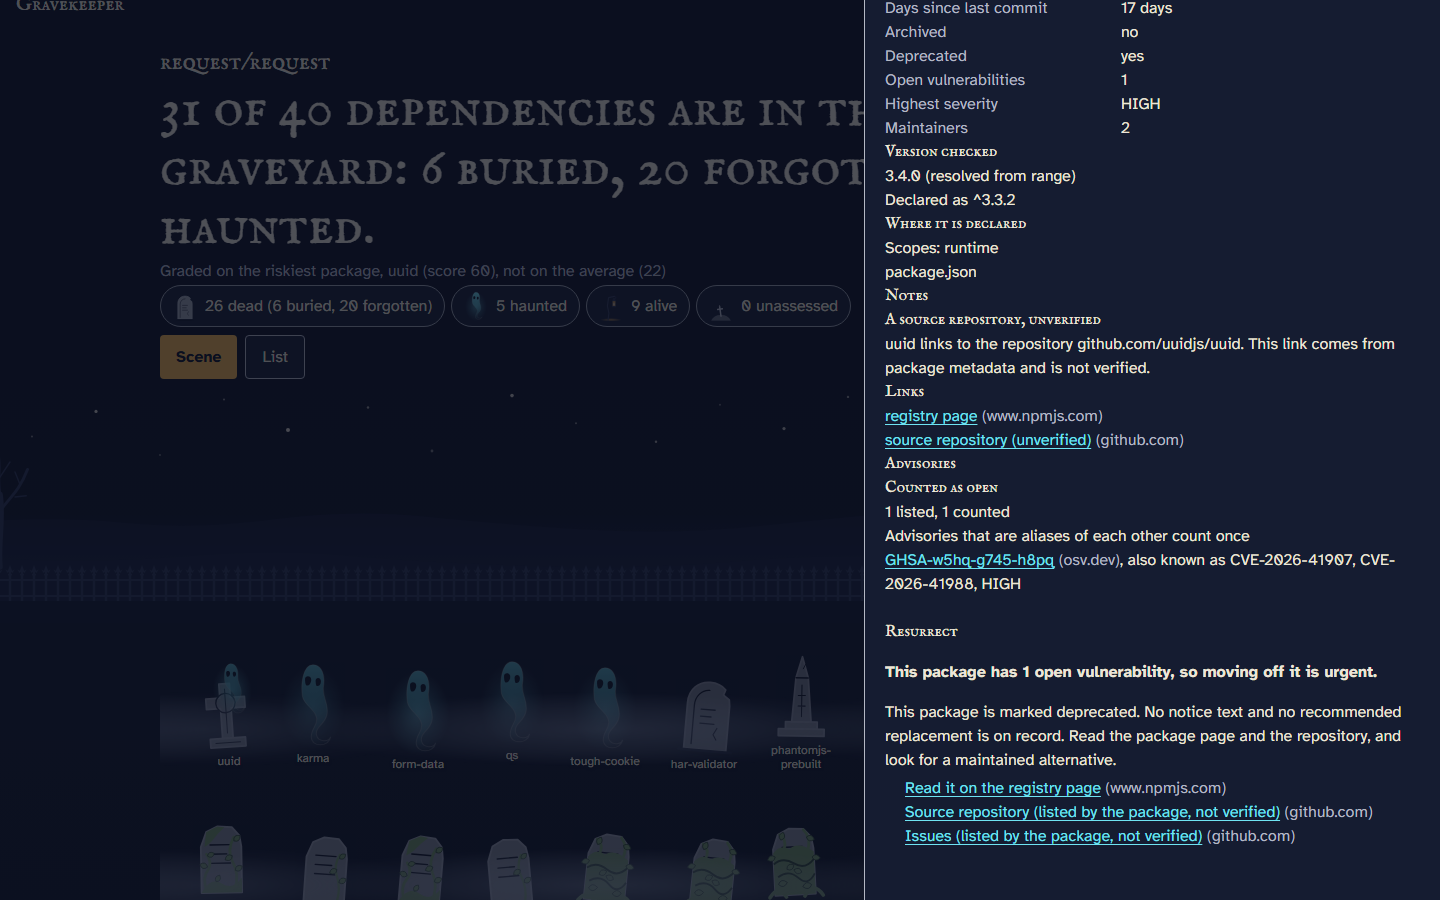
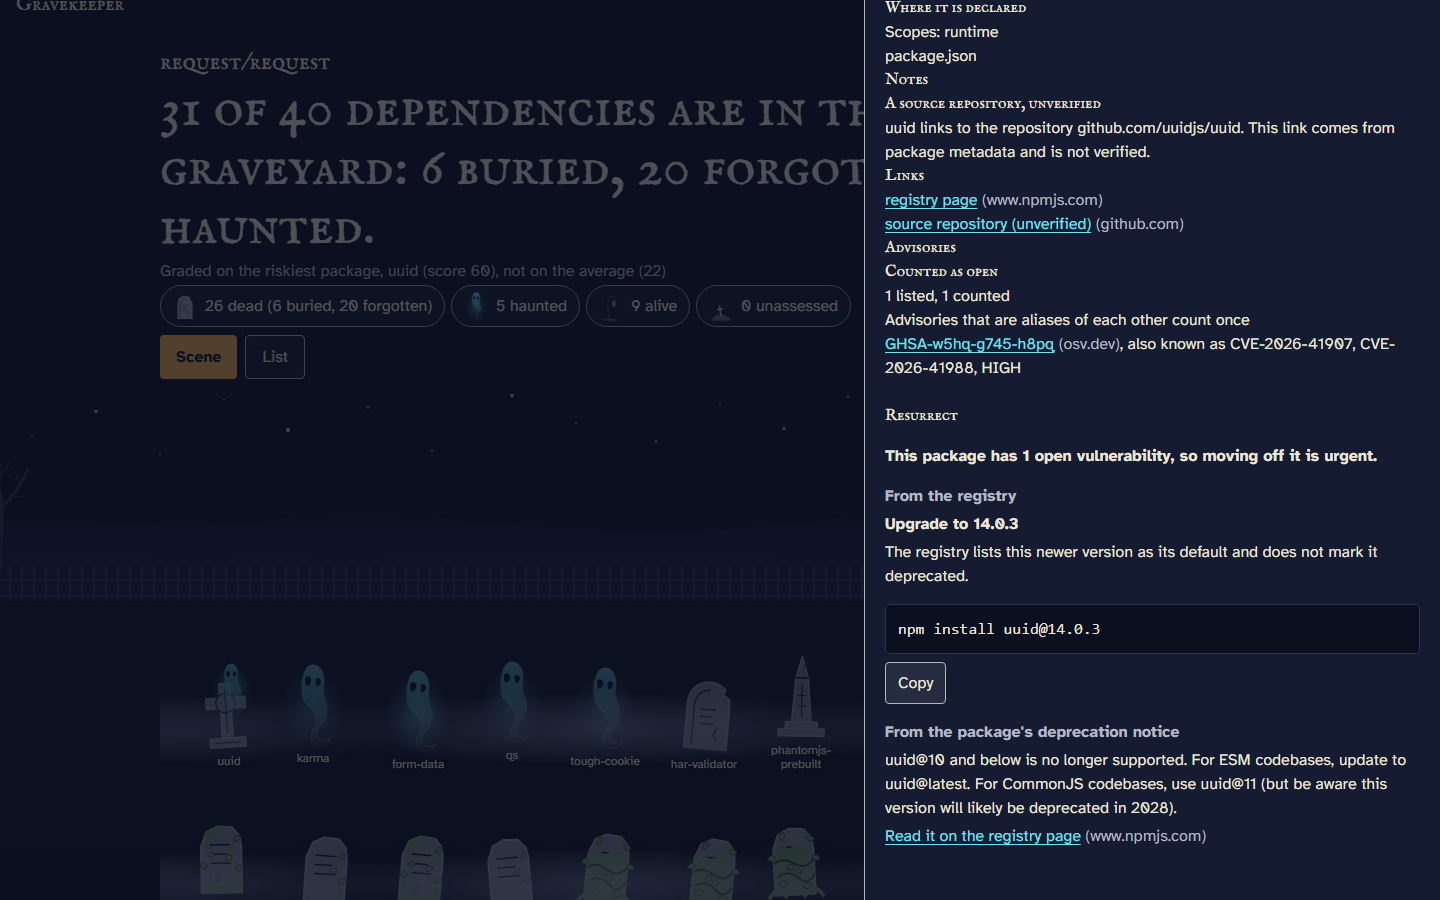
resurrect-upgrade: report and screenshots

Changed region(s): [[0.5938, 0.0, 0.9688, 0.6533], [0.5938, 0.6844, 0.9688, 0.9333], [0.7812, 0.0, 0.8125, 0.0311]]

diff --git a/docs/resurrect-upgrade-report.md b/docs/resurrect-upgrade-report.md
@@ -1,0 +1,188 @@
+# Resurrect upgrade report
+
+Verified 2026-11-21. Spec: `.kiro/specs/resurrect-upgrade`. Texts below come from `test-results/resurrect-slot-text.json` (the Resurrect slot of the detail panel, `innerText`, verbatim).
+
+## What the slot shows
+
+### uuid
+
+Recorded `request/request` fixture, checked version 3.4.0. The slot holds the urgent line, the Upgrade section with its command, then the deprecation notice of the checked version (uuid@3.4.0). No fallback is shown.
+
+- Urgent line: "This package has 1 open vulnerability, so moving off it is urgent."
+- Upgrade section: label "From the registry", title "Upgrade to 14.0.3", command `npm install uuid@14.0.3`
+- Hint label: "From the package's deprecation notice"
+
+```
+Resurrect
+
+This package has 1 open vulnerability, so moving off it is urgent.
+
+From the registry
+
+Upgrade to 14.0.3
+
+The registry lists this newer version as its default and does not mark it deprecated.
+
+npm install uuid@14.0.3
+Copy
+
+From the package's deprecation notice
+
+uuid@10 and below is no longer supported. For ESM codebases, update to uuid@latest. For CommonJS codebases, use uuid@11 (but be aware this version will likely be deprecated in 2028).
+
+Read it on the registry page (www.npmjs.com)
+```
+
+### rimraf
+
+Recorded fixture. rimraf is a dev dependency, so the command carries `--save-dev`.
+
+- Upgrade section: label "From the registry", title "Upgrade to 6.1.4", command `npm install --save-dev rimraf@6.1.4`
+- Hint label: "From the package's deprecation notice"
+
+```
+Resurrect
+
+From the registry
+
+Upgrade to 6.1.4
+
+The registry lists this newer version as its default and does not mark it deprecated.
+
+npm install --save-dev rimraf@6.1.4
+Copy
+
+From the package's deprecation notice
+
+Rimraf versions prior to v4 are no longer supported
+
+Read it on the registry page (www.npmjs.com)
+```
+
+### har-validator
+
+Recorded fixture. Only the notice of its `/latest` document is shown. There is no upgrade: 5.1.5 is already the latest version and deps.dev has no healthier default. There is no fallback.
+
+```
+Resurrect
+
+From the package's deprecation notice
+
+this library is no longer supported
+
+Read it on the registry page (www.npmjs.com)
+```
+
+### request (synthetic)
+
+**Synthetic row.** `request` is not a dependency of request/request. A buried `request` npm row was added to the request fixture body (mocked). Its hint is the real npm deprecation notice of request@2.88.2, fetched from `https://registry.npmjs.org/request/latest` on 2026-11-21. It has no upgrade because the synthetic row carries none, so the slot shows the notice plus the caretaker's list (got, axios, node-fetch).
+
+```
+Resurrect
+
+From the package's deprecation notice
+
+request has been deprecated, see https://github.com/request/request/issues/3142
+
+Read it on the registry page (www.npmjs.com)
+
+From the caretaker's list
+
+The request maintainers collected alternative libraries after deprecating request, and the list names node-fetch, got and axios.
+
+Source for this suggestion (github.com)
+
+got
+
+npm uninstall request
+npm install got
+Copy
+
+axios
+
+npm uninstall request
+npm install axios
+Copy
+
+node-fetch
+
+npm uninstall request
+npm install node-fetch
+Copy
+```
+
+axe-core found 0 violations on all six panels of the report spec (har-validator, aws-sign2, uuid, phantomjs-prebuilt, rimraf, synthetic request).
+
+## Screenshots
+
+All 1440x900, regenerated 2026-11-21. The uuid shot shows the urgent line, the Upgrade section with its command and Copy button, then the hint.
+
+![har-validator, buried: notice only](screenshots/resurrect/resurrect-buried-har-validator.png)
+
+![aws-sign2, forgotten: no notice and no replacement on record](screenshots/resurrect/resurrect-forgotten-aws-sign2.png)
+
+![uuid, restless: urgent line, upgrade, hint](screenshots/resurrect/resurrect-restless-uuid.png)
+
+## Properties
+
+RU-P1 to RU-P8 all passed at 1000 runs (`npm run test:deep`) with no counterexample. RS-P5 ("never its own replacement") is unchanged and still passes.
+
+| Property | Title (design.md) | Tests |
+| --- | --- | --- |
+| RU-P1 | A version document is requested exactly for a deprecated, differing, strict npm version | 2 |
+| RU-P2 | Hint combination prefers the version notice and stays bounded | 3 |
+| RU-P3 | An upgrade is offered only to an existing, healthy, higher default version of a deprecated checked version | 1 |
+| RU-P4 | Strict versions are shell-safe and upgrade commands follow the fixed grammar | 2 |
+| RU-P5 | Client narrowing of the upgrade is total, valid and idempotent | 3 |
+| RU-P6 | Section order is fixed and an upgrade suppresses the fallback | 3 |
+| RU-P7 | Scan results with upgrades survive JSON and the validator | 2 |
+| RU-P8 | The curated loader enforces the six-key schema and links only the human page | 1 |
+
+No RU property found a code defect during development. One CI run (a61603b) failed because the e2e test still selected the first text block, which is now the upgrade sentence. It was fixed in 891ed4a (task 15.1).
+
+## Requests
+
+Cold scan of `request/request`, L2 cache off.
+
+| | Before | After |
+| --- | --- | --- |
+| Total requests | 103 | 105 |
+| npm requests | 40 | 42 |
+| `GET registry.npmjs.org/{package}/latest` | 40 (labelled `{package}/{version}`) | 40 |
+| `GET registry.npmjs.org/{package}/{version}` | none | 2 (uuid@3.4.0, rimraf@2.7.1) |
+
+- Before: `docs/scan-accuracy-live-report.md`, 2026-11-19. That report predates this spec and labelled every npm request `{package}/{version}`.
+- After: measured 2026-11-21. Cold duration 4065 ms. Grade D, counts 9/5/26.
+
+## Fixture
+
+- Repository re-recorded: `request/request` (`tests/fixtures/request__request`, 895,832 B, under 1 MiB).
+- New recorded documents: `registry.npmjs.org/uuid/3.4.0` and `registry.npmjs.org/rimraf/2.7.1`.
+- No other fixture set changed (checked with `git status`).
+- Changed assertions, all because the version documents are now recorded and the version notice takes precedence:
+  - `tests/pipeline/resurrect-fixtures.test.ts`: "uuid/rimraf carries no hint" became "carries the recorded notice of its checked version".
+  - `tests/ui/view-model/resurrect.test.ts`, uuid case: buried fallback became hint, no fallback.
+  - `tests/e2e/resurrect.spec.ts`, uuid case: now expects urgent, upgrade, hint.
+
+## Live smoke
+
+Production `https://gravekeeper-chi.vercel.app`, scan of `request/request` without a token header, after `verify:deploy` passed on 891ed4a. HTTP 200 in 5.5 s.
+
+| Package | lookupVersion | basis | hint | upgrade |
+| --- | --- | --- | --- | --- |
+| uuid | 3.4.0 | resolved | the uuid@10 notice | 14.0.3 (registry-default) |
+| rimraf | 2.7.1 | resolved | "Rimraf versions prior to v4 are no longer supported" | 6.1.4 |
+| har-validator | 5.1.5 | resolved | its `/latest` notice | none |
+
+## Findings
+
+- Client JavaScript: 174,557 B gzip of the 256,000 B budget (was 173,948 B, +609 B). Scene medians: 34.8 ms (300 plots) and 20.8 ms (request).
+- Only npm showed an upgrade in the recorded data. No PyPI or crates.io package in the fixtures has a deprecated checked version per deps.dev.
+- HAUNTED-only packages get no upgrade. OSV is queried only for the checked version, which is a design decision.
+- Caveat: uuid 14.0.3 is the deps.dev default, but the uuid notice itself suggests uuid@11 for CommonJS codebases. The slot shows the notice verbatim next to the upgrade, so a CommonJS reader sees both.
+- Limit of the evidence check: it only confirms that the evidence page is reachable and names a `to` package. It cannot prove the page still reads as a recommendation.
+- Curated list: 37 entries. `source` is now the human page (8 npm entries moved from registry JSON to npmjs.com). All 37 evidence URLs and 55 targets passed the live contract test (92 cases). No evidence change was needed.
+
+## Commits and CI
+
+Filled in by task 17.6.

diff --git a/.kiro/specs/resurrect-upgrade/tasks.md b/.kiro/specs/resurrect-upgrade/tasks.md
@@ -215,32 +215,32 @@ Rules for every task:
     - In `docs/property-traceability.md` add a section `## resurrect-upgrade (RU-P1 to RU-P8)` with one row per property (requirements, test file, test titles, status from a full `npx vitest --run`), update the header sentence (spec list and the test and file counts) and add `### resurrect-upgrade (0 of 8)` to "Properties without a test" with the sentence that all eight properties have a passing test (or list those without one). Add a note that RU-P1 to RU-P6 and RU-P8 run on pure values without a DOM.
     - _Requirements: 9.4_
 
-- [ ] 16. Final checkpoint - All checks and end-to-end
+- [x] 16. Final checkpoint - All checks and end-to-end
   - Run `npm run typecheck`, `npm run lint`, `npm run check:core`, `npm run check:architecture` and `npx vitest --run`, and ensure all pass. Ask the user if questions arise.
   - [x] 16.1 Run the end-to-end suite and the bundle check
     - Run `npm run test:e2e` after the full vitest run is green, and `npm run build` followed by `npm run check:bundle` (the budget script reads the build output; if it needs no build in this repository, run it alone). Fix only failures caused by this spec without any change of art, palette or header layout, and without lowering an assertion or a budget. Record the client JavaScript numbers (bytes against budget) for the report.
     - _Requirements: 6.16, 9.5, 9.9_
-  - [~] 16.2 Commit and push the end-to-end group (orchestrator-only)
+  - [x] 16.2 Commit and push the end-to-end group (orchestrator-only)
     - Stage by name the files of group 15 and any fix of task 16.1 and commit with the subject `resurrect-upgrade: end-to-end, report spec, traceability (group 15)`. Push. Record the hash.
     - _Requirements: 9.10_
 
 - [ ] 17. Deep runs, screenshots, deploy, live smoke and report
-  - [~] 17.1 Run the deep property tests (orchestrator-only)
+  - [x] 17.1 Run the deep property tests (orchestrator-only)
     - Run `npm run test:deep -- <file>` for each of the eight property files (`tests/pipeline/mapping/version-doc-plan.property.test.ts`, `hints-combine.property.test.ts`, `upgrade.property.test.ts`, `tests/pipeline/scan/scan-cache-upgrade.property.test.ts`, `tests/ui/view-model/narrow-upgrade.property.test.ts`, `resurrect-upgrade-commands.property.test.ts`, `resurrect-upgrade-order.property.test.ts`, `resurrections-evidence.property.test.ts`). Never set `FC_NUM_RUNS` in the shell. Keep for the report, per property: number, title, file, result and, for a failure, the shrunk counterexample, seed and path (or "no counterexample found"). A failing property is reported, not hidden; fix the cause in a separate commit if it is a code defect and rerun.
     - _Requirements: 9.6_
-  - [~] 17.2 Regenerate the three screenshots (orchestrator-only)
+  - [x] 17.2 Regenerate the three screenshots (orchestrator-only)
     - Run `npm run e2e:fixtures`, then `$env:RS_REPORT = '1'; npx playwright test tests/e2e/resurrect-report.spec.ts --project=desktop`. Check that `docs/screenshots/resurrect/resurrect-buried-har-validator.png`, `resurrect-forgotten-aws-sign2.png` and `resurrect-restless-uuid.png` are rewritten at 1440x900 and show the slot (open the images), and keep `test-results/resurrect-slot-text.json` for task 17.5.
     - _Requirements: 9.7_
-  - [~] 17.3 Count the cold-scan requests (orchestrator-only)
+  - [x] 17.3 Count the cold-scan requests (orchestrator-only)
     - Run `$env:GRAVEKEEPER_LIVE_TESTS = '1'; $env:GITHUB_TOKEN = (gh auth token); npm run live:report -- --out test-results/resurrect-upgrade-live-report.md request/request` in one command (the token is never printed; the output file is not committed). Take the `npm` rows (`/{package}/latest` and `/{package}/{version}`) and the cold total for `request/request`. Take the "before" numbers from `docs/scan-accuracy-live-report.md` (the `request/request` column, with its date) and note that the "before" report predates this spec.
     - _Requirements: 3.5_
-  - [~] 17.4 Deploy and run the live smoke (orchestrator-only)
+  - [x] 17.4 Deploy and run the live smoke (orchestrator-only)
     - Check that the commits of groups 1 to 15 are pushed to `main`, run `npm run verify:deploy` until it passes (Vercel deploys on push), then run one scan against production without any token header: `Invoke-RestMethod -Method Post -Uri https://gravekeeper-chi.vercel.app/api/scan -ContentType 'application/json' -Body '{"repoUrl":"https://github.com/request/request"}' -TimeoutSec 90`. For the dependencies `uuid` and `rimraf` print `lookupVersion`, `versionBasis`, `hints` and `upgrade` (names and fields only). Repeat once if the first answer is a timeout or a partial source status. Keep the output for task 17.5. If production still answers with the old shape (no `upgrade` anywhere, `hints` of the latest document), wait for the deployment and retry; if it persists, report it.
     - _Requirements: 9.8_
-  - [~] 17.5 Write the report (orchestrator-only)
+  - [x] 17.5 Write the report (orchestrator-only)
     - Create `docs/resurrect-upgrade-report.md` with the sections `# Resurrect upgrade report`, `## What the slot shows` (for `uuid`, `rimraf`, `har-validator` and a synthetic `request` row, labelled synthetic with its reason, the text from `test-results/resurrect-slot-text.json`: sections, hint text and label, the Upgrade_Section title and command), `## Screenshots` (the three PNGs embedded), `## Properties` (task 17.1), `## Requests` (task 17.3: before and after, the added `{package}/{version}` row), `## Fixture` (the two recorded version documents of task 7.1, the exact repository, the statement that no other set changed, and the list of changed assertions of task 7.2), `## Live smoke` (task 17.4: hints and upgrade of `uuid` and `rimraf` on production), `## Findings` (client JavaScript numbers of task 16.1, which ecosystems showed an upgrade in the data, anything surprising, any limit of the evidence check) and `## Commits and CI` (task 17.6). The report holds no token; grep it for `ghp_`, `gho_` and `github_pat_`.
     - _Requirements: 9.6, 9.7, 9.8_
-  - [~] 17.6 Commit the report and append the commits with CI status (orchestrator-only)
+  - [-] 17.6 Commit the report and append the commits with CI status (orchestrator-only)
     - Stage `docs/resurrect-upgrade-report.md`, `docs/screenshots/resurrect/*.png` and `docs/property-traceability.md` (if the counts changed) by name and commit with the subject `resurrect-upgrade: report and screenshots`. Push. Collect the commits of this spec (the hashes recorded in tasks 2.1, 4.1, 6.1, 8.1, 10.1, 14.1, 16.2 and this one, plus any fix commit) with `git log --oneline`, and the CI status of each with `gh run list --limit 30` (workflow `ci.yml`: status and conclusion per commit, `pending` for an unfinished run). Append the table (hash, subject, CI status) to the section `## Commits and CI` of the report, commit it with the subject `resurrect-upgrade: report commits and CI status` and push; the CI status of this last commit is `pending`.
     - _Requirements: 9.6_
 
